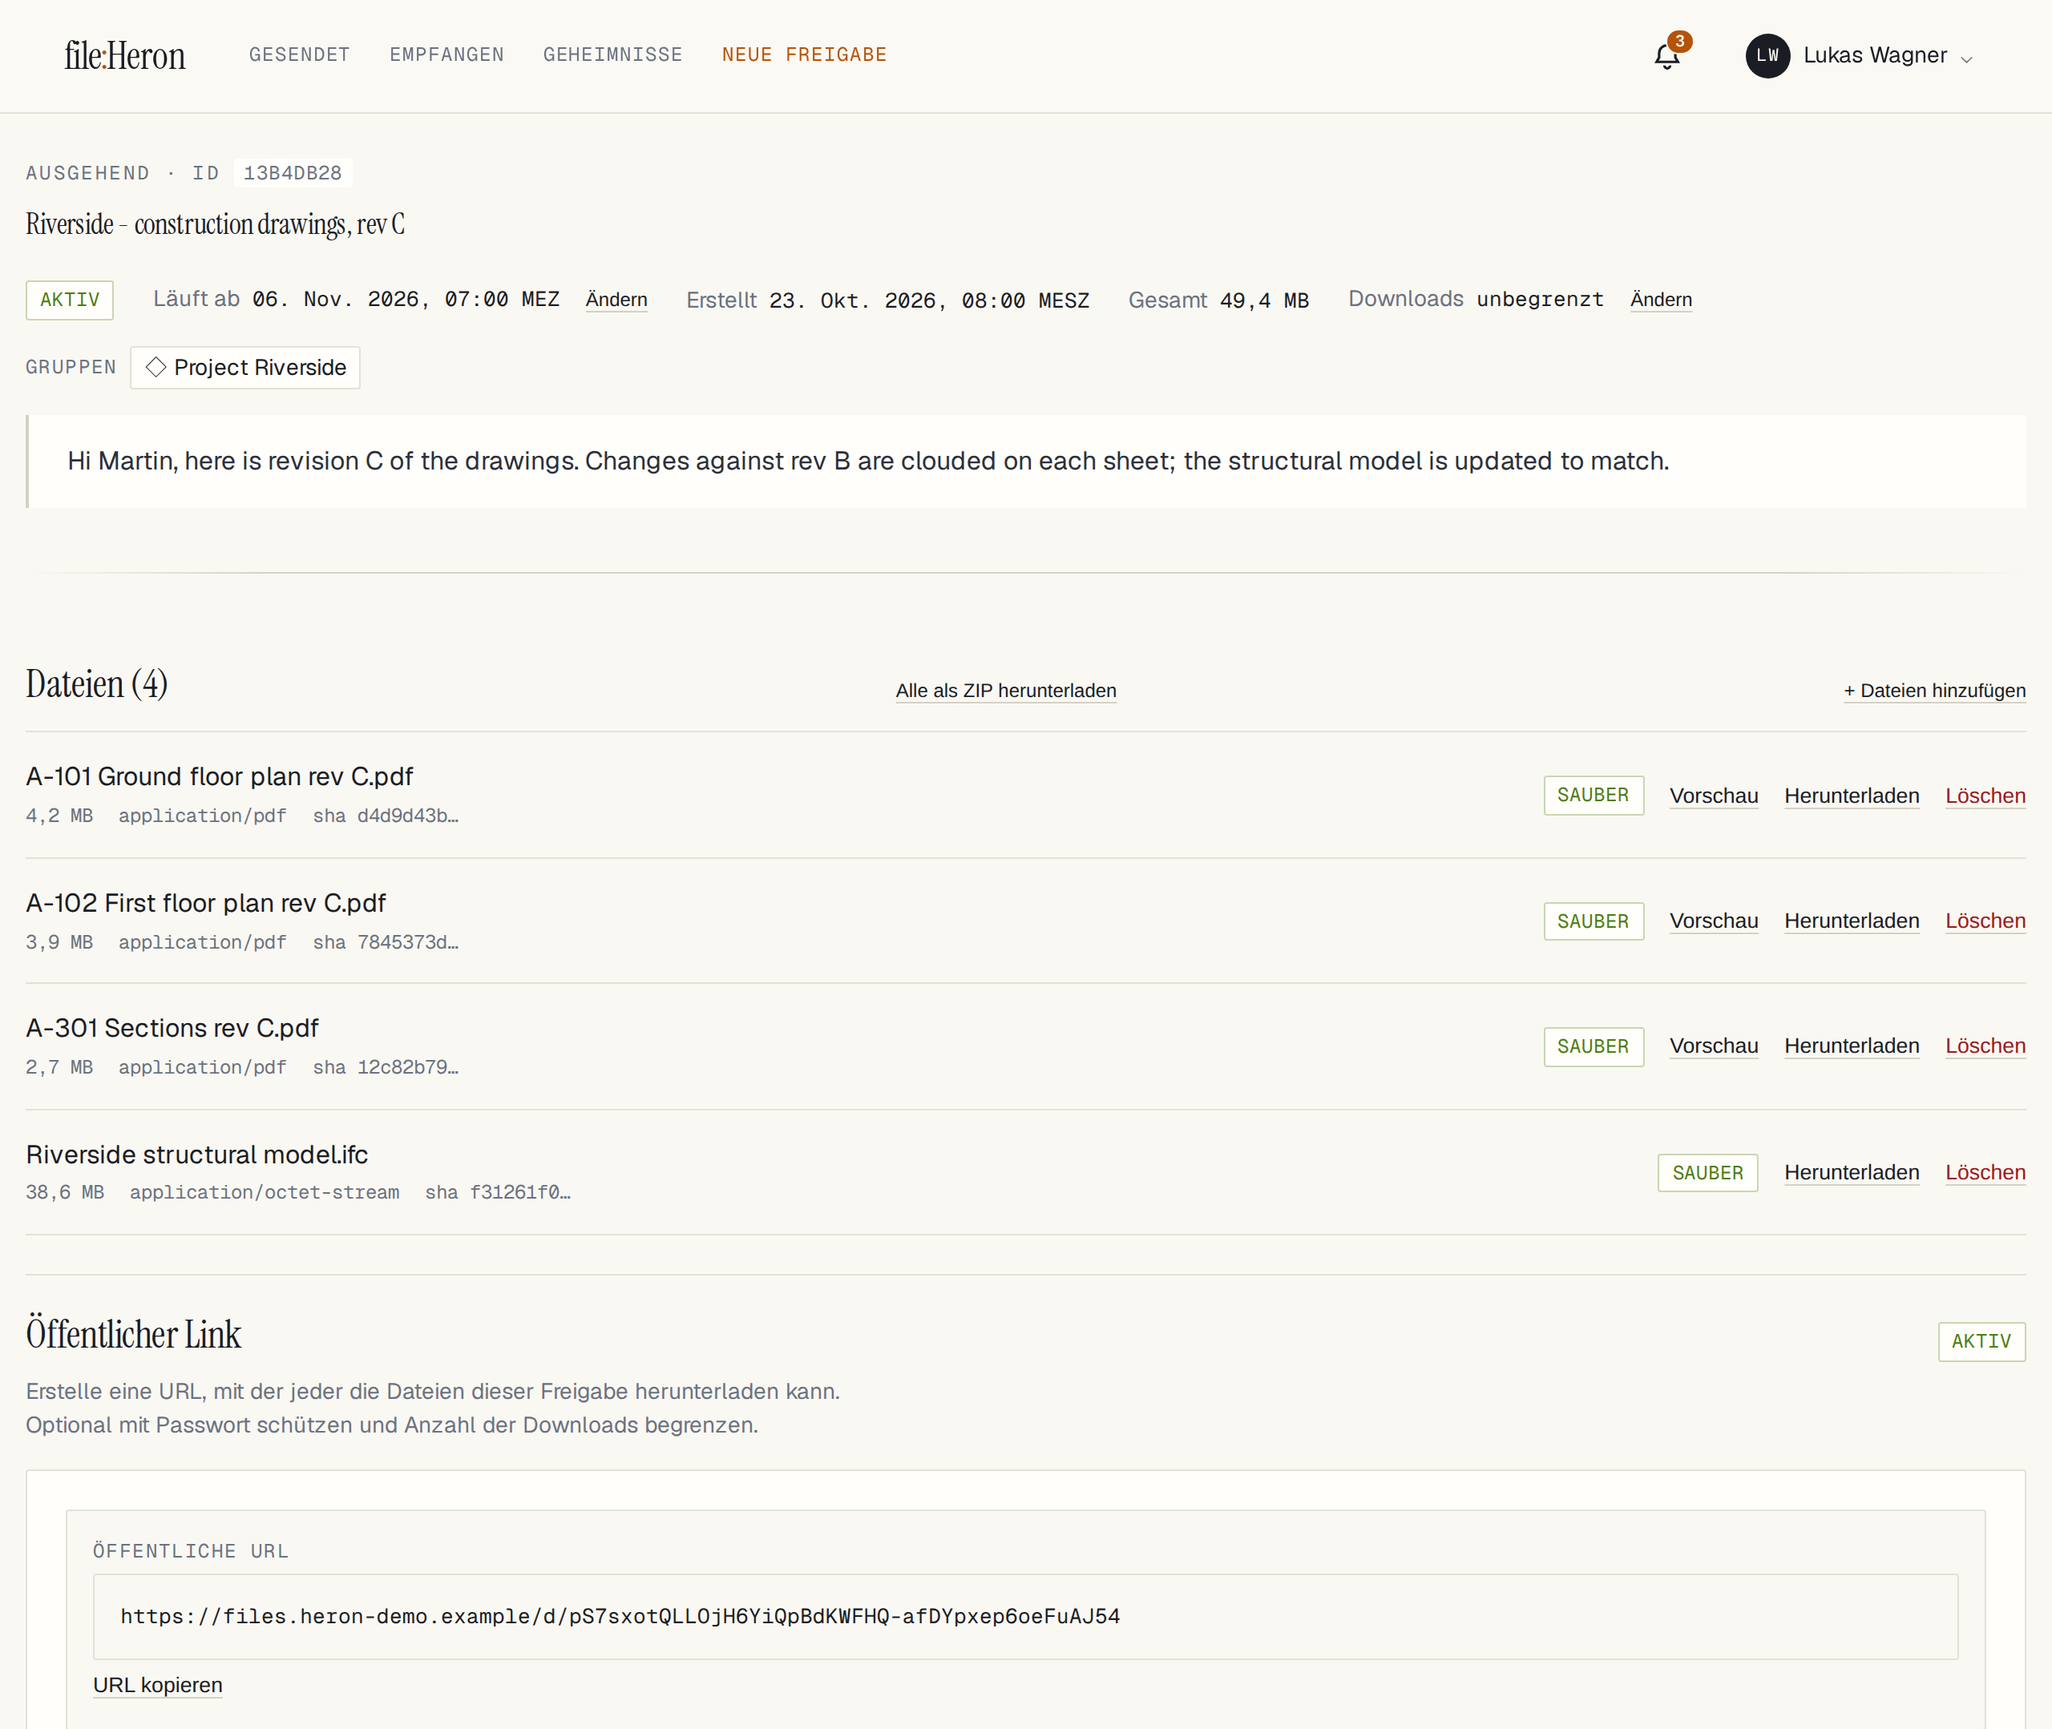
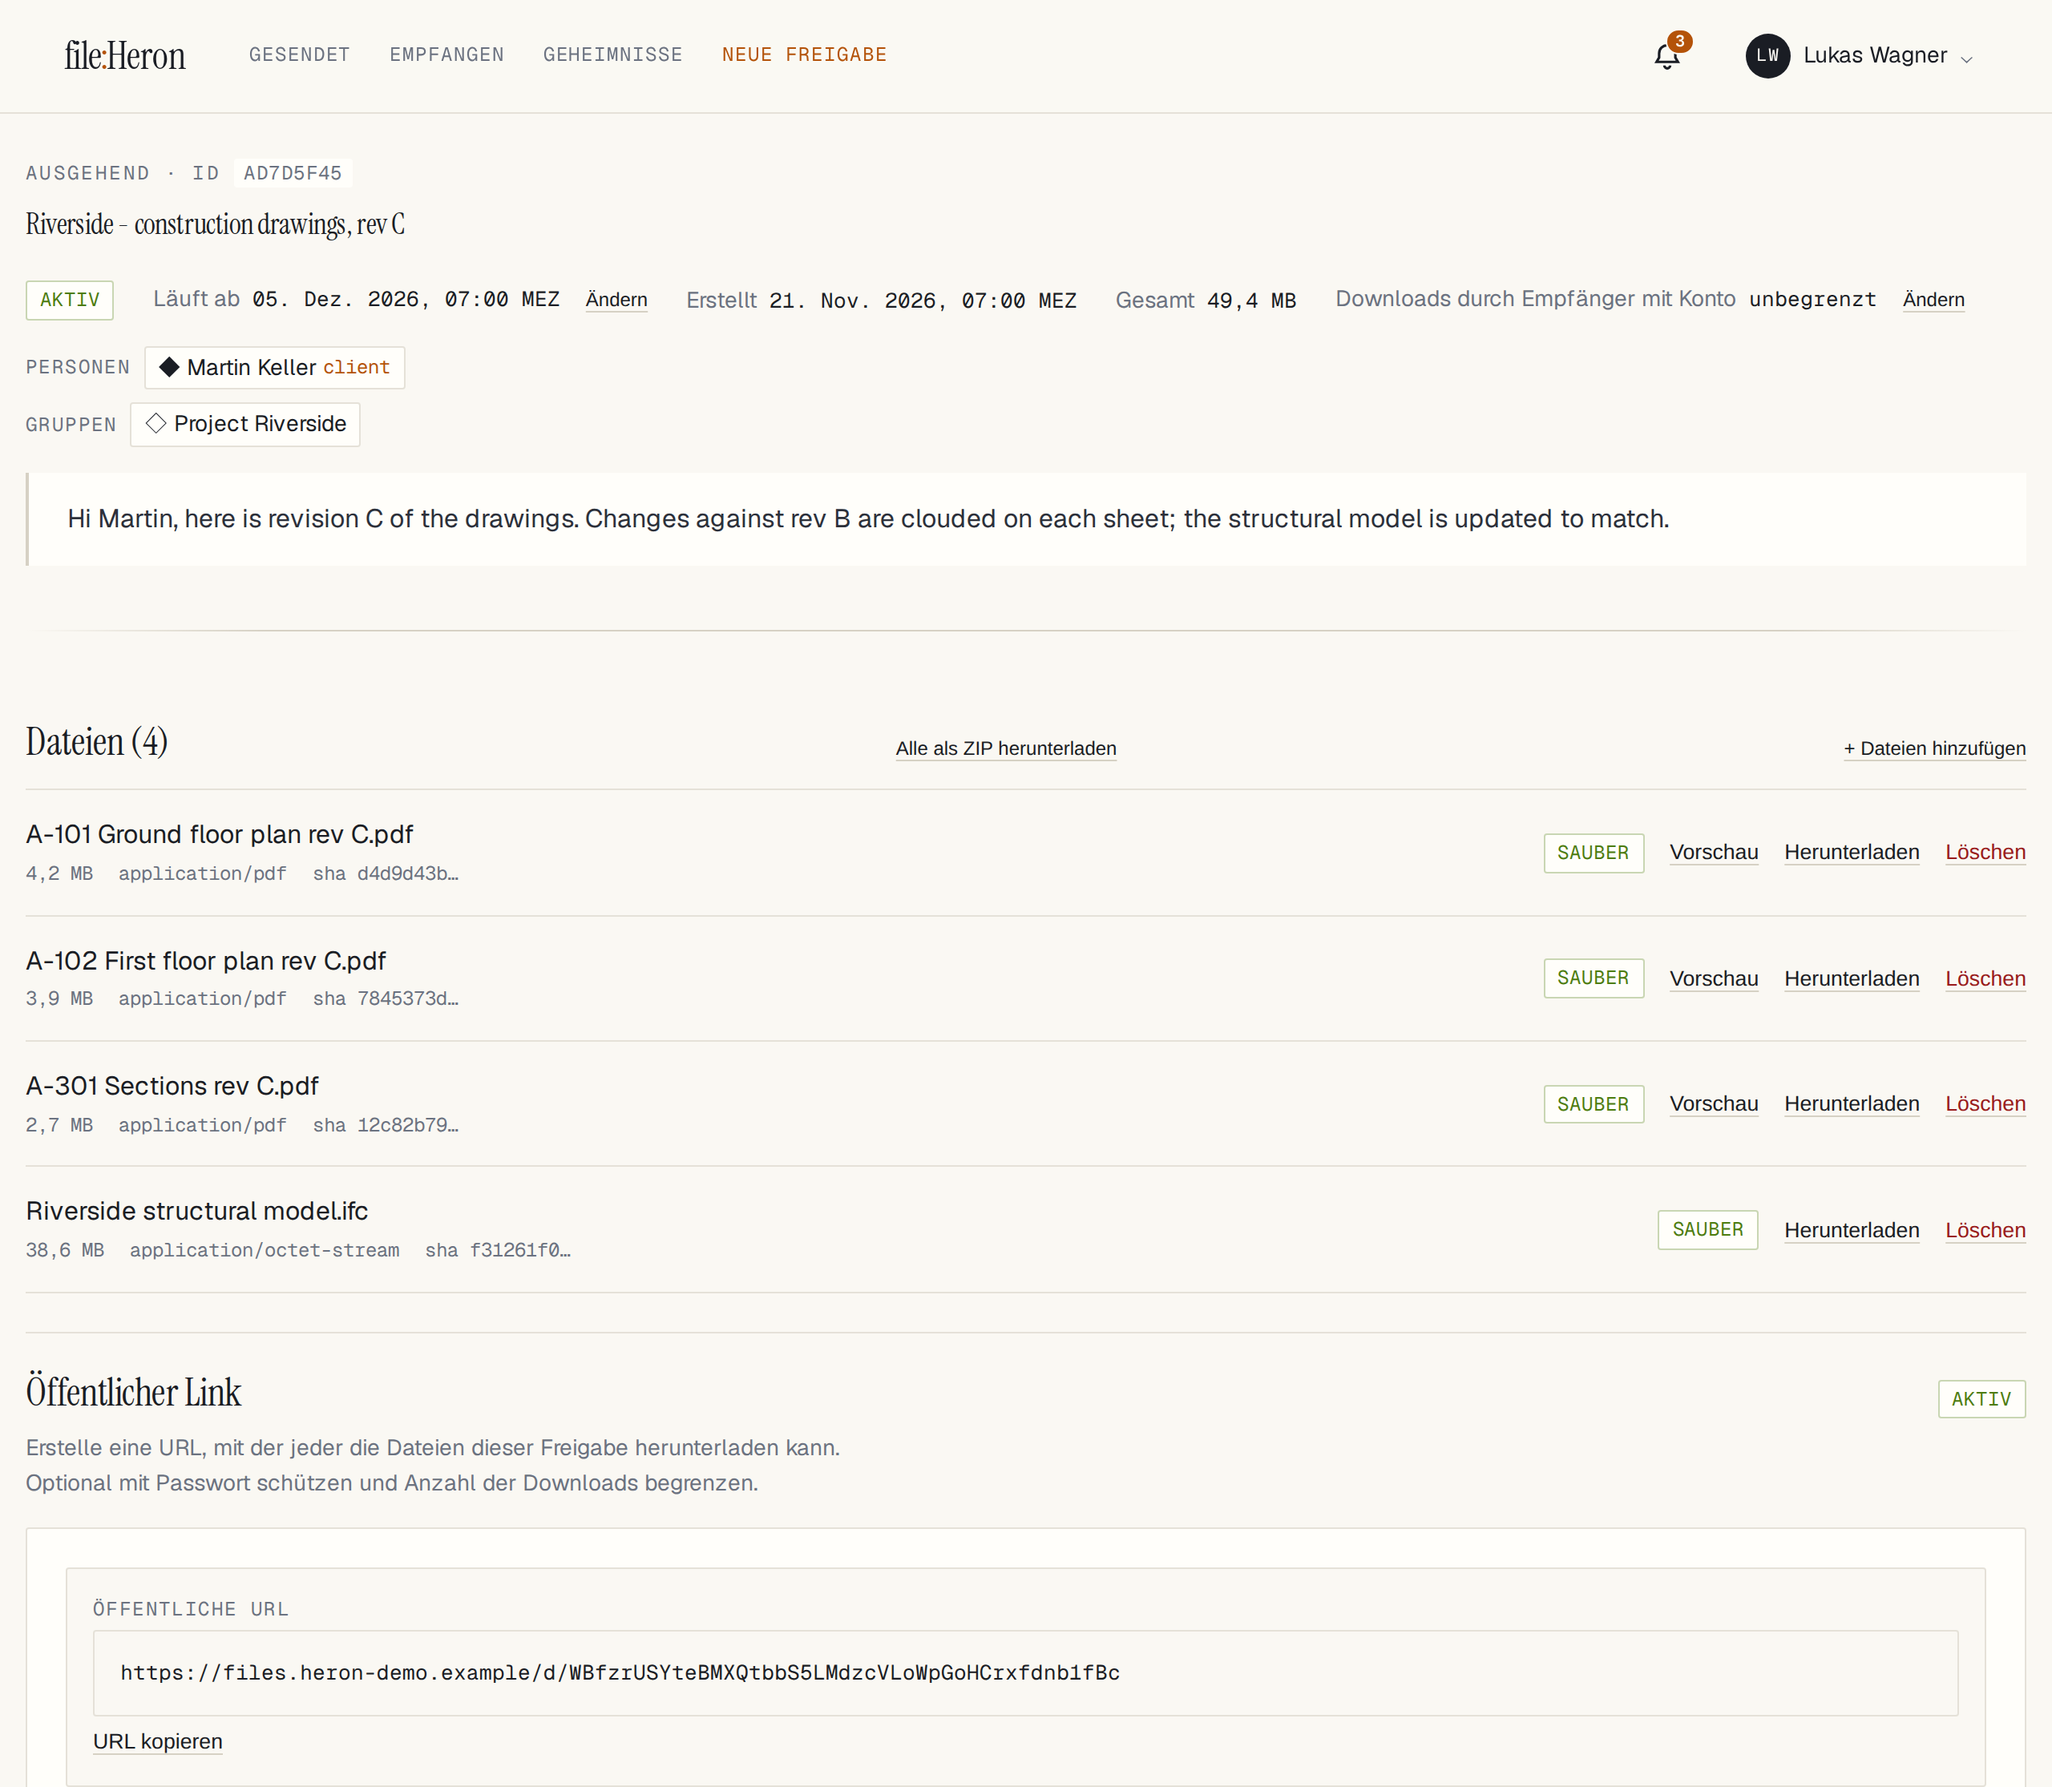
docs: screenshots - the eleven screens that changed
From scripts/docs-screenshots.sh on a clean clone of bae828c. The whole set was
regenerated and compared pixel by pixel; the other 55 differ only by the day
they were made (the demo data's dates) or by a pixel of height, and stay.

- share-page, share-page.de, share-page-end-dialog: the people a share went to.
- share-new, secrets-new, secrets-request-new: the recipient search line spans
  its column.
- secrets: Sent opens on All.
- admin-share-approval: approvers are employees and admins only.
- admin-email-templates: the two templates for how a quarantine ended.
- admin-email: the HELO help text as it has read since v2.29.3.
- public-link: the download control as it has looked since v2.32.0.

Gallery caption of the share page updated.

diff --git a/docs/screenshots/README.md b/docs/screenshots/README.md
@@ -110,9 +110,9 @@ Files, subject, message, people and groups as recipients, the expiry and an opti
 
 ## A share (`/share/…`)
 
-Its files with their scan verdicts, preview, download and delete actions, and the public link panel.
+Who it went to - people and groups, shown to the sender, admins and approvers - its files with their scan verdicts, preview, download and delete actions, and the public link panel.
 
-<img src="share-page.png" alt="A share: its files with their scan verdicts, preview, download and delete actions, and the public link panel." width="800">
+<img src="share-page.png" alt="A share: who it went to, its files with their scan verdicts, preview, download and delete actions, and the public link panel." width="800">
 
 ## The same share in German
 
